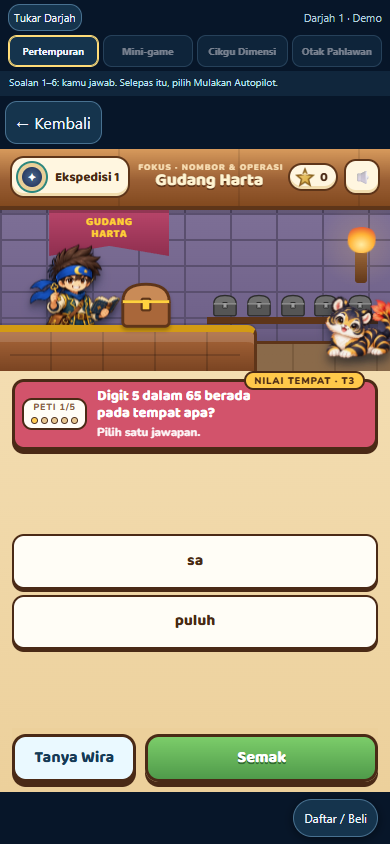
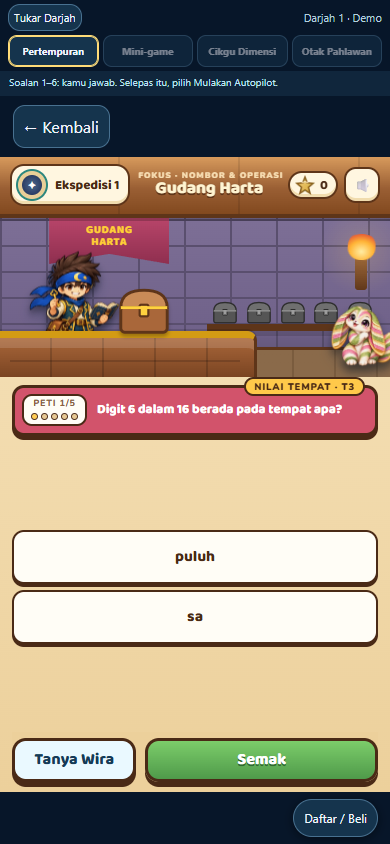
Let parents advance Jelajah worked examples at their own pace

diff --git a/js/jelajah-minigame-v2.js b/js/jelajah-minigame-v2.js
@@ -32,16 +32,18 @@
   const roundTypes=new Set(['PA_GUDANG_HARTA_ROUND','PA_KEDAI_KEK_ROUND','PA_BENGKEL_AJAIB_ROUND','PA_LOMBONG_PERMATA_ROUND','PA_DAPUR_RAMUAN_ROUND']);
   const complete=()=>{if(finished)return;finished=true;onComplete({scenario,game:cfg.page,successes,workedRounds});};
   const notifyManual=()=>{if(manualNotified)return;manualNotified=true;options?.onManualComplete?.({scenario,game:cfg.page,successes,startAutopilot});};
-  const drive=()=>{
-    if(!autopilot||finished)return;
-    const rt=frame?.contentWindow?.PAJelajahGameRuntime;if(!rt)return;
-    const st=rt.state?.();
-    if(st?.offer){rt.startWorked();later(drive,350);return}
-    if(st?.worked&&!st?.solved){if(rt.next?.())later(drive,1000);else later(drive,250);return}
+  const next=document.createElement('button');next.type='button';next.className='pa-jelajah-next primary';next.textContent='Seterusnya';next.hidden=true;
+  let roundReady=false;
+  next.onclick=()=>{
+    if(closed||finished||next.disabled)return;
+    const rt=frame.contentWindow?.PAJelajahGameRuntime;if(!rt)return;
+    if(roundReady){if(workedRounds>=2){complete();return}roundReady=false;rt.beginWorked(workedRounds);next.textContent='Seterusnya'}
+    else{const st=rt.state();if(st.offer)rt.startWorked();else if(st.worked&&!st.solved)rt.next();}
+    next.disabled=true;later(()=>{next.disabled=false},800);
   };
   const startAutopilot=()=>{
     if(autopilot||finished||successes<3)return false;autopilot=true;workedRounds=0;
-    frame?.contentWindow?.PAJelajahGameRuntime?.beginWorked?.(0);later(drive,350);return true;
+    frame?.contentWindow?.PAJelajahGameRuntime?.beginWorked?.(0);next.hidden=false;return true;
   };
   const game=cfg.page.split('/').pop().replace(/^jelajah-game-/, '').replace(/\.html$/,'');
   const previous=window.PAFocusMiniGamesLive;
@@ -51,10 +53,10 @@
    const d=e.data;
    if(e.origin!==ORIGIN||e.source!==frame.contentWindow||d?.version!==1||d?.nonce!==nonce||d?.skillId!==cfg.skill)return;
    if(d.type==='PA_MINIGAME_ATTEMPT'&&d.ok===true&&!autopilot&&!d.facets?.guided){const key=String(d.key||'');if(key&&!seen.has(key)){seen.add(key);successes++;if(successes>=3)notifyManual();}}
-   if(autopilot&&roundTypes.has(d.type)&&d.stars===0){workedRounds++;if(workedRounds<2){later(()=>frame.contentWindow.PAJelajahGameRuntime?.beginWorked?.(workedRounds),500);later(drive,850)}else complete();}
+   if(autopilot&&roundTypes.has(d.type)&&d.stars===0){workedRounds++;roundReady=true;next.textContent=workedRounds<2?'Contoh seterusnya':'Selesai';}
   };
-  const cleanup=()=>{closed=true;autopilot=false;timers.forEach(clearTimeout);timers.clear();window.removeEventListener('message',receive);if(window.PAFocusMiniGamesLive===registry)window.PAFocusMiniGamesLive=previous;exit.remove();frame.remove();};
-  window.addEventListener('message',receive);host.append(exit,frame);
+  const cleanup=()=>{closed=true;autopilot=false;timers.forEach(clearTimeout);timers.clear();window.removeEventListener('message',receive);if(window.PAFocusMiniGamesLive===registry)window.PAFocusMiniGamesLive=previous;toolbar.remove();frame.remove();};
+  const toolbar=document.createElement('div');toolbar.className='pa-jelajah-game-toolbar';toolbar.append(exit,next);window.addEventListener('message',receive);host.append(toolbar,frame);
   cleanup.startAutopilot=startAutopilot;
   return cleanup;
  }

diff --git a/css/jelajah-v1.css b/css/jelajah-v1.css
@@ -7,3 +7,5 @@
 @media(max-width:380px){#cards strong{font-size:9px}}.learnerReviewCard{background:#112c43;padding:16px;border:1px solid #456076;border-radius:14px;margin-top:15px}.learnerReviewCard p,.learnerReviewCard li{font-size:13px;line-height:1.6}
 
 #parent.jelajahParent{max-width:780px;margin:auto;padding:16px}#parent .parentTabs button.active{background:#edc260;color:#172033}#parent .paDiagCard{margin-top:10px}
+
+.pa-jelajah-game-toolbar{display:flex;align-items:center;justify-content:space-between;gap:8px;padding:4px 8px}.pa-jelajah-next{font-size:13px;padding:8px 14px;min-height:42px}

diff --git a/review/jelajah-final-verification.md b/review/jelajah-final-verification.md
@@ -23,3 +23,7 @@ Draft deployment: 6ae1acf6dca0849e12af728f. Source commit: f5cb3b5.
 Correction: finisher focus sequence verified in all six grades after scripted misses. Parent report now uses the current Ringkasan Anak summary helper and original stylesheet, with Kemahiran detail. Plain BM popups and report tabs passed the 390px browser audit. The old learnerReviewCard is absent.
 
 Full animation (no reduced motion) Darjah 2 passed original finisher focus sequence, battle completion, focus practice and current parent report. Current draft: https://6ae1b3f58176648e0d26fa7f--pahlawanangka.netlify.app/demo-jelajah.html
+
+Pacing revision: real mini-game audit now checks that worked step count remains unchanged during an idle pause, then advances each step with the visible Seterusnya button. Remote main was fetched and is already an ancestor of this branch (3bee537); all prior demo commits remain included.
+
+Pacing checks passed for Darjah 1–6: three manual rounds, idle pause without step advancement, user-clicked worked steps and two completed worked examples. The 40 isolation/access/funnel/page-lock regressions also passed.

diff --git a/docs/DEMO-JELAJAH-V1.md b/docs/DEMO-JELAJAH-V1.md
@@ -64,3 +64,5 @@ funnel, page-lock and isolation regression suites cover the protected paid paths
 Evidence is stored under `review/`.
 
 Current draft preview: https://6ae1b3f58176648e0d26fa7f--pahlawanangka.netlify.app/demo-jelajah.html
+
+Worked examples now advance only through Seterusnya clicks. There is no timed step advancement; each finished example remains visible until Contoh seterusnya or Selesai is clicked.
